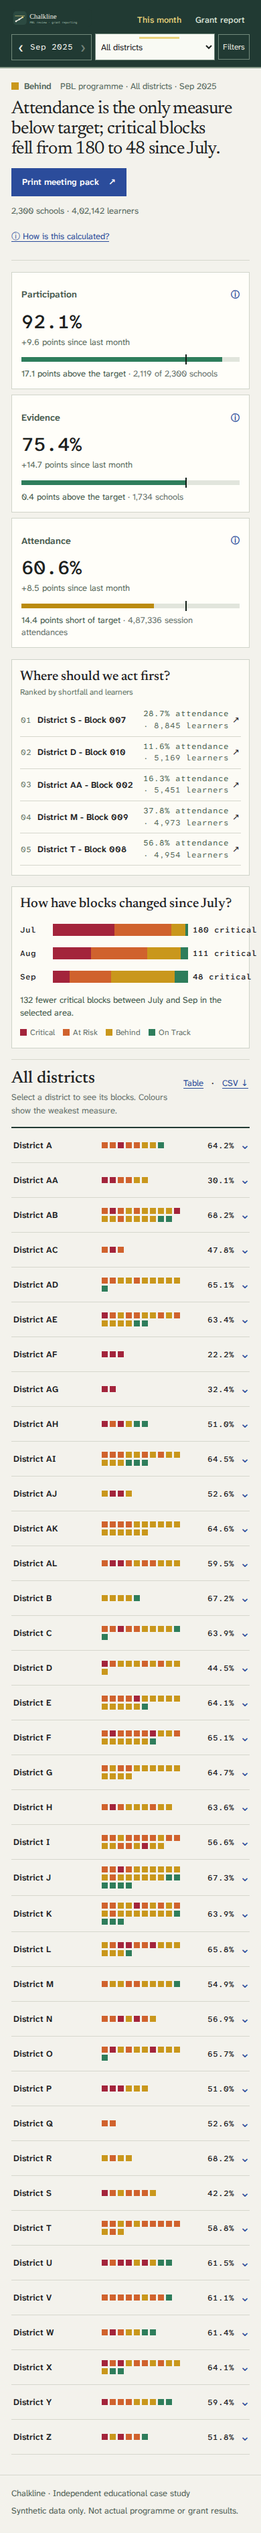
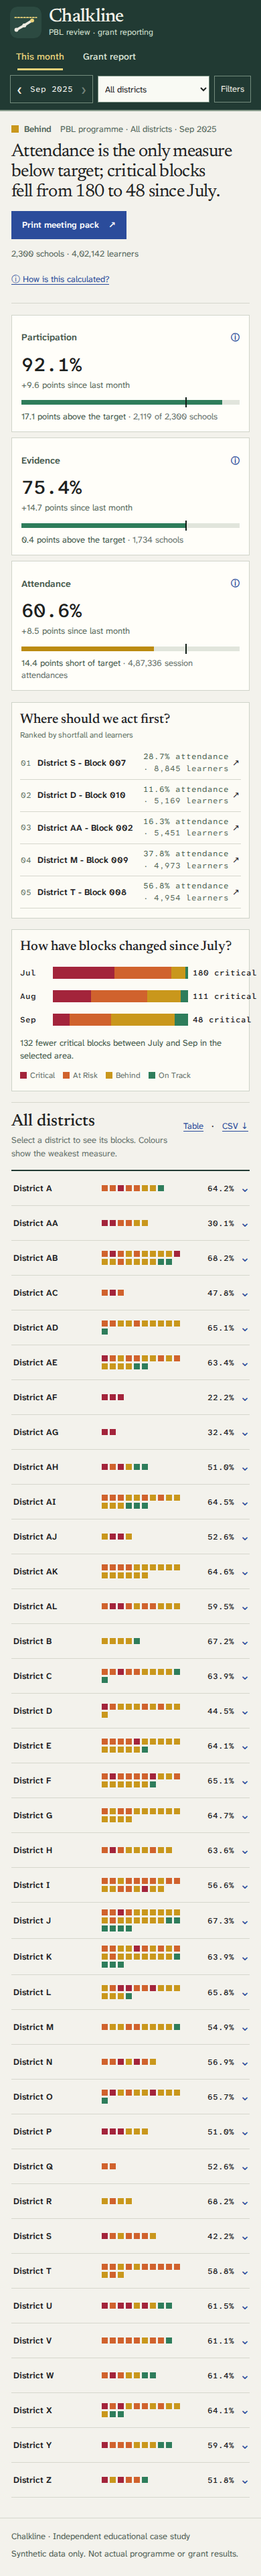
Fix Chalkline brand visibility on all device widths
Readable mark and wordmark, responsive header layout, and twenty-viewport clipping and interaction checks.

diff --git a/docs/styles.css b/docs/styles.css
@@ -459,3 +459,203 @@ h1,h2,h3,h4{font-weight:500}
   .priority-stats{font-size:12px}
   .priority-stats small{font-size:12px!important}
 }
+
+
+/* Brand visibility: never scale the Chalkline name and descriptor as tiny image text. */
+.compact-header {
+  display: grid;
+  grid-template-columns: max-content max-content minmax(0,1fr);
+  align-items: center;
+  column-gap: 24px;
+  row-gap: 10px;
+  min-height: 74px;
+  padding: 10px 30px;
+}
+.compact-wordmark {
+  display: inline-flex;
+  align-items: center;
+  justify-self: start;
+  gap: 11px;
+  flex: 0 0 auto;
+  min-width: 0;
+  max-width: 100%;
+  color: var(--chalk);
+  text-decoration: none;
+  white-space: nowrap;
+}
+.compact-wordmark img.brand-symbol {
+  display: block;
+  flex: 0 0 50px;
+  width: 50px;
+  height: 50px;
+  max-height: none;
+  border-radius: 11px;
+}
+.brand-name-group {
+  display: flex;
+  flex-direction: column;
+  min-width: 0;
+  gap: 3px;
+}
+.brand-name {
+  display: block;
+  font: 500 29px/1 "Newsreader", Georgia, serif;
+  letter-spacing: -0.025em;
+  color: #f7f5eb;
+}
+.brand-descriptor {
+  display: block;
+  font: 400 12.5px/1.1 "Atkinson Hyperlegible Next", system-ui, sans-serif;
+  letter-spacing: 0;
+  color: #d3e1d2;
+}
+.compact-wordmark:hover .brand-name { color: #ffffff; }
+.compact-nav {
+  justify-self: center;
+  align-self: stretch;
+  display: flex;
+  align-items: center;
+  min-width: max-content;
+  gap: 8px;
+}
+.compact-nav button {
+  min-height: 44px;
+  padding: 0 11px;
+  font-size: 15px;
+}
+.compact-nav button.active::after { bottom: 0; left: 11px; right: 11px; }
+.compact-header-tools {
+  margin-left: 0;
+  justify-self: end;
+  justify-content: flex-end;
+  min-width: 0;
+  flex-wrap: nowrap;
+  gap: 9px;
+}
+.compact-month-switch, .compact-district-picker, .compact-filter-toggle { flex-shrink: 0; }
+.compact-header-tools .compact-district-picker select { width: 160px; max-width: 100%; }
+@media (max-width: 1100px) {
+  .compact-header {
+    grid-template-columns: minmax(0,1fr) max-content;
+    grid-template-areas: "brand navigation" "controls controls";
+    min-height: 0;
+    padding: 10px 22px;
+    column-gap: 14px;
+    row-gap: 8px;
+  }
+  .compact-wordmark { grid-area: brand; }
+  .compact-nav {
+    grid-area: navigation;
+    justify-self: end;
+    align-self: center;
+    height: 46px;
+  }
+  .compact-header-tools {
+    grid-area: controls;
+    justify-self: stretch;
+    width: 100%;
+    justify-content: flex-end;
+  }
+  .compact-wordmark img.brand-symbol {
+    flex-basis: 47px;
+    width: 47px;
+    height: 47px;
+  }
+  .brand-name { font-size: 28px; }
+  .compact-nav button { font-size: 15px; padding-inline: 12px; }
+}
+@media (max-width: 680px) {
+  .compact-header {
+    grid-template-columns: minmax(0,1fr);
+    grid-template-areas: "brand" "navigation" "controls";
+    padding: 10px 15px;
+    row-gap: 7px;
+  }
+  .compact-wordmark {
+    justify-self: start;
+    width: max-content;
+    max-width: 100%;
+  }
+  .compact-wordmark img.brand-symbol {
+    flex-basis: 47px;
+    width: 47px;
+    height: 47px;
+  }
+  .brand-name { font-size: 28px; }
+  .brand-descriptor { font-size: 12.5px; }
+  .compact-nav {
+    justify-self: stretch;
+    justify-content: flex-start;
+    align-self: center;
+    width: 100%;
+    height: 41px;
+    min-width: 0;
+    gap: 10px;
+  }
+  .compact-nav button {
+    font-size: 14px;
+    padding: 0 9px;
+    min-height: 41px;
+  }
+  .compact-header-tools {
+    display: grid;
+    grid-template-columns: auto minmax(0,1fr) auto;
+    align-items: center;
+    width: 100%;
+    gap: 7px;
+  }
+  .compact-month-switch {
+    grid-column: 1;
+    min-height: 40px;
+    gap: 2px;
+    margin: 0;
+  }
+  .compact-month-switch button {
+    min-height: 40px;
+    min-width: 26px;
+    padding: 0 5px;
+  }
+  .compact-month-switch span {
+    min-width: 66px;
+    font-size: 12px;
+  }
+  .compact-district-picker {
+    grid-column: 2;
+    min-width: 0;
+    width: 100%;
+    flex: initial;
+  }
+  .compact-header-tools .compact-district-picker select {
+    display: block;
+    width: 100%;
+    min-width: 0;
+    max-width: 100%;
+    height: 40px;
+    padding-inline: 6px;
+    font-size: 13px;
+  }
+  .compact-filter-toggle {
+    grid-column: 3;
+    min-height: 40px;
+    padding: 7px 9px;
+    font-size: 13px;
+  }
+  .grant-mode .compact-header-tools {
+    display: flex;
+    justify-content: flex-start;
+  }
+}
+@media (max-width: 360px) {
+  .compact-header { padding-inline: 12px; }
+  .brand-name { font-size: 27px; }
+  .brand-descriptor { font-size: 12px; }
+  .compact-wordmark img.brand-symbol {
+    flex-basis: 44px;
+    width: 44px;
+    height: 44px;
+  }
+  .compact-header-tools { gap: 5px; }
+  .compact-month-switch span { min-width: 61px; }
+  .compact-month-switch button { min-width: 25px; padding: 0 3px; }
+  .compact-filter-toggle { padding-inline: 7px; font-size: 12px; }
+}

diff --git a/src/ui.ts b/src/ui.ts
@@ -156,7 +156,8 @@ function header() {
     <header class="masthead">
       <div class="compact-header">
         <a class="compact-wordmark" href="https://ashh-droid.github.io/chalkline-pbl-review/" aria-label="Chalkline home">
-          <img src="brand/chalkline-wordmark-dark.svg" width="142" height="38" alt="Chalkline"/>
+          <img class="brand-symbol" src="brand/chalkline-mark.svg" width="48" height="48" alt="" aria-hidden="true"/>
+          <span class="brand-name-group"><strong class="brand-name">Chalkline</strong><small class="brand-descriptor">PBL review · grant reporting</small></span>
         </a>
         <nav class="compact-nav" aria-label="Main navigation">
           <button data-page="review" class="${page === "review" ? "active" : ""}" aria-current="${page === "review" ? "page" : "false"}">This month</button>

diff --git a/docs/app/ui.js b/docs/app/ui.js
@@ -95,7 +95,8 @@ function header() {
     <header class="masthead">
       <div class="compact-header">
         <a class="compact-wordmark" href="https://ashh-droid.github.io/chalkline-pbl-review/" aria-label="Chalkline home">
-          <img src="brand/chalkline-wordmark-dark.svg" width="142" height="38" alt="Chalkline"/>
+          <img class="brand-symbol" src="brand/chalkline-mark.svg" width="48" height="48" alt="" aria-hidden="true"/>
+          <span class="brand-name-group"><strong class="brand-name">Chalkline</strong><small class="brand-descriptor">PBL review · grant reporting</small></span>
         </a>
         <nav class="compact-nav" aria-label="Main navigation">
           <button data-page="review" class="${page === "review" ? "active" : ""}" aria-current="${page === "review" ? "page" : "false"}">This month</button>

diff --git a/scripts/browser_smoke.py b/scripts/browser_smoke.py
@@ -10,6 +10,62 @@ from playwright.sync_api import sync_playwright
 url = sys.argv[1] if len(sys.argv) > 1 else "http://localhost:3000"
 widths = [360, 390, 768, 1024, 1366, 1440]
 
+# Check the entire brand lockup, not only page-level horizontal overflow.
+def check_header(page, width):
+    result = page.evaluate("""() => {
+      const find = selector => document.querySelector(selector);
+      const element = selector => {
+        const e = find(selector);
+        if (!e || getComputedStyle(e).display === "none") return null;
+        const r = e.getBoundingClientRect();
+        // A child of a hidden parent has its own display value but no box.
+        if (r.width === 0 || r.height === 0) return null;
+        return { left:r.left, right:r.right, top:r.top, bottom:r.bottom,
+                 width:r.width, height:r.height };
+      };
+      const overlap = (a,b) => a && b && a.left < b.right-0.5 &&
+        b.left < a.right-0.5 && a.top < b.bottom-0.5 && b.top < a.bottom-0.5;
+      const brand = element(".compact-wordmark");
+      const symbol = element(".compact-wordmark .brand-symbol");
+      const name = element(".compact-wordmark .brand-name");
+      const descriptor = element(".compact-wordmark .brand-descriptor");
+      const tabs = [...document.querySelectorAll(".compact-nav button")]
+        .map(el => {
+          const r=el.getBoundingClientRect();
+          return {left:r.left,right:r.right,top:r.top,bottom:r.bottom,width:r.width,height:r.height};
+        });
+      const month = element(".compact-month-switch");
+      const district = element(".compact-district-picker select");
+      const filter = element(".compact-filter-toggle");
+      const visible = [brand,symbol,name,descriptor,...tabs,month,district,filter].filter(Boolean);
+      const clipped = visible.some(r => r.left < -0.5 || r.right > innerWidth+0.5 || r.width < 1 || r.height < 1);
+      const icon = find(".compact-wordmark .brand-symbol");
+      return {
+        clipped,
+        overlaps: tabs.some(x => overlap(brand,x)) ||
+          tabs.some(x => overlap(x,month) || overlap(x,district) || overlap(x,filter)) ||
+          overlap(brand,month) || overlap(brand,district) || overlap(brand,filter) ||
+          overlap(month,district) || overlap(month,filter) || overlap(district,filter),
+        nameText: find(".brand-name")?.textContent?.trim(),
+        descriptorText: find(".brand-descriptor")?.textContent?.trim(),
+        nameFontPx: parseFloat(getComputedStyle(find(".brand-name")).fontSize),
+        descriptorFontPx: parseFloat(getComputedStyle(find(".brand-descriptor")).fontSize),
+        logoLoaded: !!icon && icon.complete && icon.naturalWidth > 0,
+        symbolWidth: symbol?.width,
+        tabCount: tabs.length,
+        documentOverflows: document.documentElement.scrollWidth > innerWidth+2,
+        positions: {brand,symbol,name,descriptor,tabs,month,district,filter}
+      };
+    }""")
+    assert result["nameText"] == "Chalkline", f"Brand name lost at {width}px: {result}"
+    assert result["descriptorText"] == "PBL review · grant reporting", f"Brand subtitle lost at {width}px: {result}"
+    assert result["logoLoaded"] and result["symbolWidth"] >= 40, f"Logo too small or missing at {width}px: {result}"
+    assert result["nameFontPx"] >= 26 and result["descriptorFontPx"] >= 12, f"Brand font scaled down at {width}px: {result}"
+    assert result["tabCount"] == 2 and not result["clipped"], f"Header control clipped at {width}px: {result}"
+    assert not result["overlaps"], f"Header elements overlap at {width}px: {result}"
+    assert not result["documentOverflows"], f"Page overflows at {width}px: {result}"
+
+
 with sync_playwright() as playwright:
     browser = playwright.chromium.launch(headless=True)
     for width in widths:
@@ -19,6 +75,7 @@ with sync_playwright() as playwright:
         response = page.goto(url, wait_until="networkidle", timeout=60000)
         assert response and response.status == 200, f"HTTP error at {width}px"
         page.locator(".month-metric").first.wait_for(timeout=30000)
+        check_header(page, width)
         assert page.locator(".compact-nav button").count() == 2, f"Navigation has extra tabs at {width}"
         assert page.locator(".month-metric").count() == 3, f"Three KPIs missing at {width}"
         assert page.locator(".status-stack-row").count() == 3, f"Month status summary missing at {width}"
@@ -96,5 +153,20 @@ with sync_playwright() as playwright:
         page.locator(".month-metric").first.wait_for()
         assert not errors, f"Uncaught JS error at {width}px: {errors}"
         print(f"PASS: {width}px | two-page flow, summary, district drill-down, month, filters, grants, print, no overflow")
+        page.close()
+    # Fine-grained viewport sampling catches clipping between CSS breakpoints.
+    for width in [320, 347, 375, 414, 430, 480, 560, 600, 680, 700, 820, 960, 1100, 1280]:
+        page = browser.new_page(viewport={"width": width, "height": 900})
+        response = page.goto(url, wait_until="networkidle", timeout=60000)
+        assert response and response.status == 200
+        page.locator(".month-metric").first.wait_for()
+        check_header(page, width)
+        if width == 347:
+            page.wait_for_function("document.fonts.status === 'loaded'")
+            page.screenshot(path="engineering/screenshots/Chalkline_Header_347.png",
+                            clip={"x":0,"y":0,"width":347,"height":min(420,900)})
+        page.locator('[data-page="grants"]').click()
+        check_header(page, width)
+        print(f"PASS: {width}px | brand, tabs, month and controls visible and non-overlapping")
         page.close()
     browser.close()
